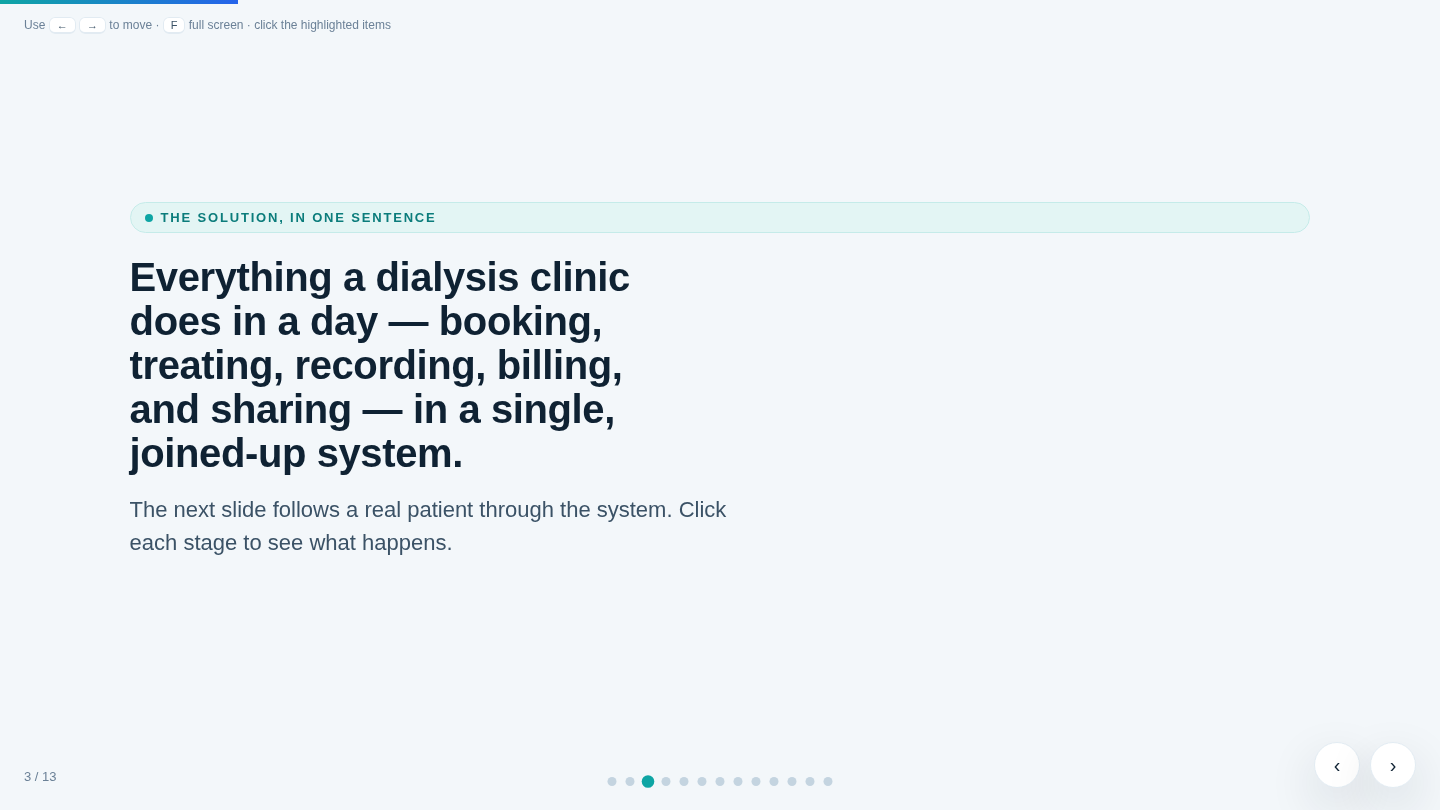
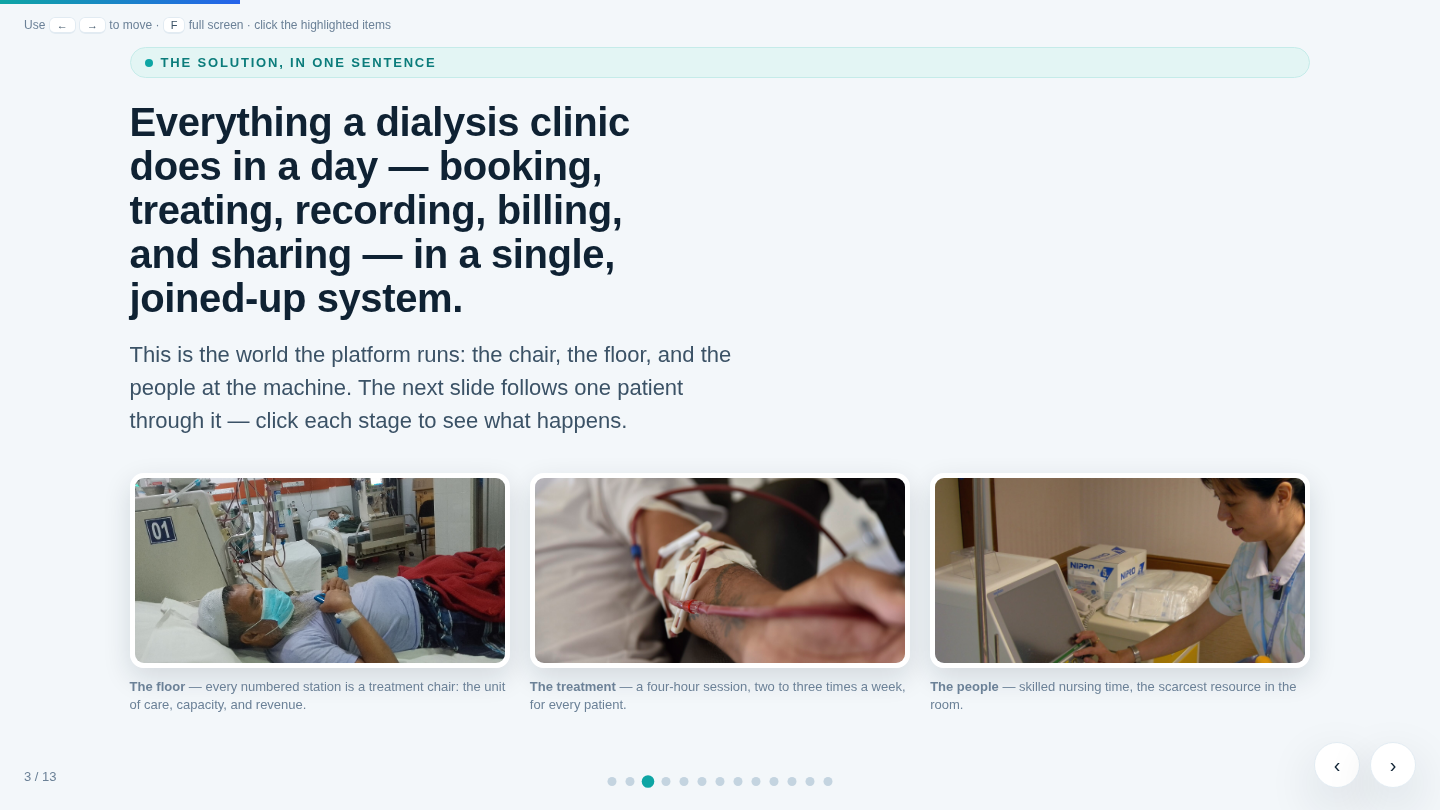
docs(business): add real haemodialysis photography to the pitch deck
Title slide gets the treatment-chair photo; slide 3 becomes a three-photo
strip (floor / treatment / people); closing slide carries the Commons
attribution line. Re-rendered the affected slide screenshots and synced
the presenter script narration and notes.

https://claude.ai/code/session_01PnTHJPNUeHRiUkxtXu8Mjs

Changed region(s): [[0.0938, 0.1235, 0.9062, 0.8951], [0.0938, 0.0617, 0.3125, 0.0926]]

diff --git a/docs/business/dialysis-platform-overview.html b/docs/business/dialysis-platform-overview.html
@@ -48,6 +48,22 @@
   .brandbar{position:absolute;left:9vw;bottom:9vh;display:flex;align-items:center;gap:12px;color:var(--muted);font-size:14px}
   .logo{width:42px;height:42px;border-radius:12px;background:linear-gradient(135deg,var(--teal),var(--blue));display:grid;place-items:center;color:#fff;font-weight:800;box-shadow:var(--shadow)}
 
+  /* ---------- Photography ---------- */
+  .title-photo{
+    position:absolute;right:7vw;top:50%;transform:translateY(-50%) rotate(1.5deg);
+    width:min(28vw,440px);border-radius:16px;border:6px solid #fff;box-shadow:var(--shadow);
+  }
+  .photo-strip{display:flex;gap:20px;margin-top:36px}
+  .photo-strip figure{flex:1;min-width:0}
+  .photo-strip img{
+    width:100%;height:clamp(140px,24vh,220px);object-fit:cover;border-radius:14px;
+    border:5px solid #fff;box-shadow:0 10px 28px rgba(15,34,51,.14);display:block
+  }
+  .photo-strip figcaption{font-size:13px;color:var(--muted);margin-top:10px;line-height:1.4}
+  .credits{margin-top:18px;font-size:12px;color:var(--muted)}
+  @media (max-width:1100px){.title-photo{display:none}}
+  @media (max-width:760px){.photo-strip{flex-direction:column}}
+
   /* ---------- Generic helpers ---------- */
   .grid{display:grid;gap:18px}
   .two{grid-template-columns:1fr 1fr}
@@ -195,6 +211,7 @@
         <div class="pill">For the Business Developer<span>What it does & where it’s headed</span></div>
       </div>
     </div>
+    <img class="title-photo" src="images/hemodialysis-treatment-chair.jpg" alt="A patient reclined in a dialysis treatment chair, connected to the machine beside it" />
     <div class="brandbar"><div class="logo">D</div> Dialysis Care Platform · Minimum Viable Product</div>
   </section>
 
@@ -230,7 +247,12 @@
   <section class="slide">
     <span class="kicker"><span class="dot"></span> The solution, in one sentence</span>
     <h2 style="max-width:24ch">Everything a dialysis clinic does in a day — booking, treating, recording, billing, and sharing — in a single, joined‑up system.</h2>
-    <p class="lead">The next slide follows a real patient through the system. Click each stage to see what happens.</p>
+    <p class="lead">This is the world the platform runs: the chair, the floor, and the people at the machine. The next slide follows one patient through it — click each stage to see what happens.</p>
+    <div class="photo-strip">
+      <figure><img src="images/dialysis-unit-multi-chair.jpg" alt="A working dialysis floor with numbered treatment stations" /><figcaption><strong>The floor</strong> — every numbered station is a treatment chair: the unit of care, capacity, and revenue.</figcaption></figure>
+      <figure><img src="images/hemodialysis-vascular-access.jpg" alt="Close-up of the blood lines connecting a patient to the dialysis machine" /><figcaption><strong>The treatment</strong> — a four‑hour session, two to three times a week, for every patient.</figcaption></figure>
+      <figure><img src="images/hemodialysis-machine-nurse.jpg" alt="A nurse operating a haemodialysis machine" /><figcaption><strong>The people</strong> — skilled nursing time, the scarcest resource in the room.</figcaption></figure>
+    </div>
   </section>
 
   <!-- 4 · PATIENT JOURNEY (interactive) -->
@@ -416,6 +438,7 @@
       <a class="b2" href="#" onclick="goTo(0);return false;">Back to start</a>
     </div>
     <div class="brandbar" style="position:static;margin-top:40px"><div class="logo">D</div> Thank you — happy to walk through any part in more detail.</div>
+    <div class="credits">Photography: Wikimedia Commons — Anna Frodesiak (CC0) · Yahya (CC BY‑SA 4.0) · Senado Federal (CC BY 2.0) · Jackhsiao (public domain). Details: images/CREDITS.md</div>
   </section>
 
 </div>

diff --git a/docs/business/dialysis-platform-overview-script.md b/docs/business/dialysis-platform-overview-script.md
@@ -24,7 +24,8 @@ sentence from this session, let it be the one on this slide."
 
 *Speaker notes: pause two beats on the headline before advancing. The two pills under the
 title tell each audience what's in it for them — gesture at them if both roles are in the
-room.*
+room. The photograph on the right is a real patient in a treatment chair, machine alongside —
+the deck's subject matter is real from the first slide, not stock renders.*
 
 ---
 
@@ -58,10 +59,19 @@ the rest of the deck is the right column unpacked.*
 **Narration:**
 
 "Here's the whole product in one sentence: everything a dialysis clinic does in a day —
-booking, treating, recording, billing, and sharing — in a single, joined-up system. The best
-way to believe that sentence is to follow one patient through it. That's the next slide."
+booking, treating, recording, billing, and sharing — in a single, joined-up system.
 
-*Speaker notes: deliberately short — it's a breather slide. Advance within twenty seconds.*
+And before we go further, this is the world we're talking about — not abstractions. **The
+floor**: every numbered station on it is a treatment chair, and the chair is the clinic's
+unit of care, capacity, and revenue. **The treatment**: a four-hour session, two to three
+times a week, for every patient, indefinitely. **The people**: skilled nursing time, the
+scarcest resource in the room. Everything the platform does, it does for these three
+photographs. The best way to believe the sentence above them is to follow one patient
+through it — that's the next slide."
+
+*Speaker notes: the three photographs are real haemodialysis photography (openly licensed —
+credits on the closing slide). Gesture left to right: floor → treatment → people. Still a
+short slide — forty seconds, not twenty, now that the photos carry meaning.*
 
 ---
 
@@ -250,7 +260,10 @@ you paid. That's the product. I'm happy to replay the patient journey, dive into
 block, or talk numbers — wherever you'd like to go deeper. Thank you."
 
 *Speaker notes: the two buttons on this slide jump straight back to the journey (slide 4) or
-the start — use them for the Q&A rather than scrolling.*
+the start — use them for the Q&A rather than scrolling. The small line at the bottom credits
+the Wikimedia Commons photography (CC0 / CC BY / CC BY-SA / public domain); keep it on any
+exported or printed copy — the licenses require the attribution. Full details live in
+`images/CREDITS.md`.*
 
 ---
 